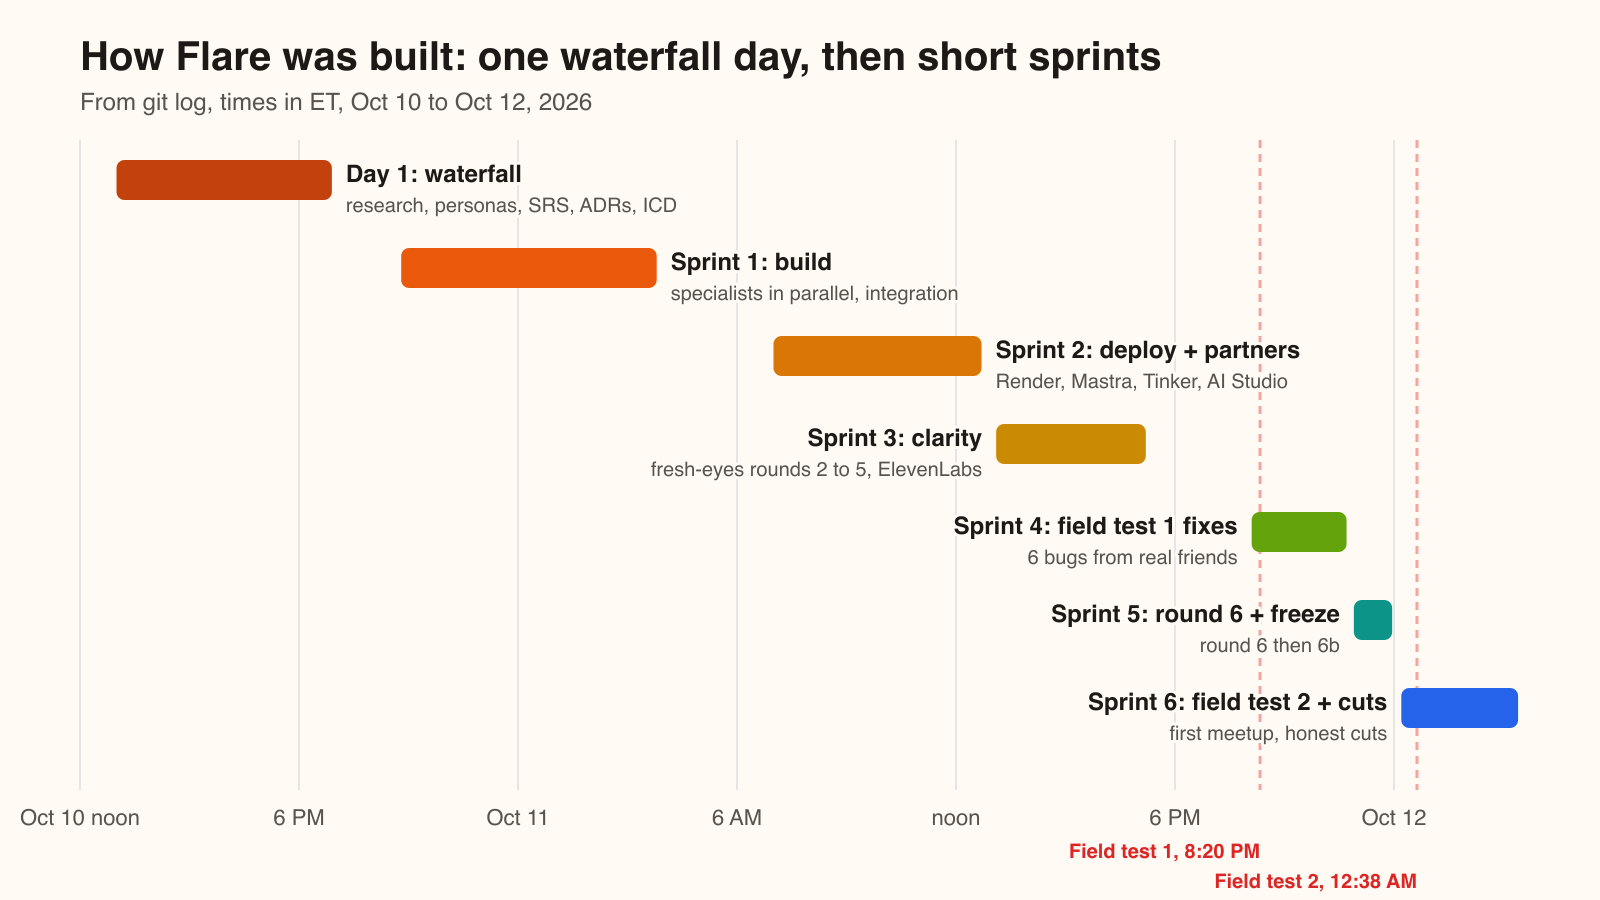
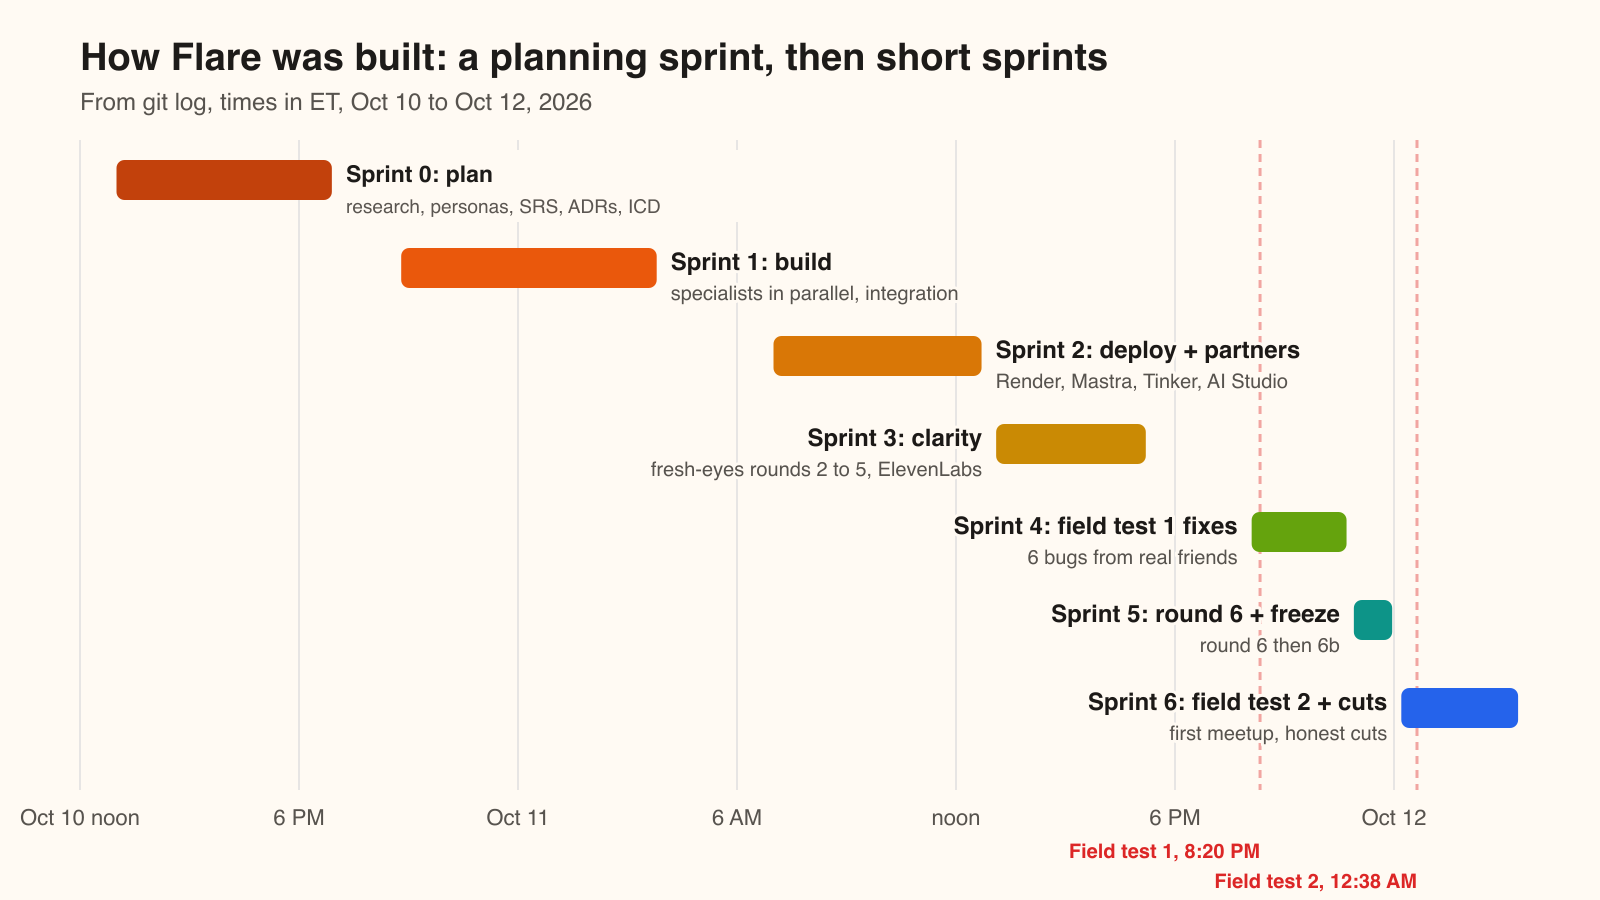
Post v2: the founder's How I used AI text, the method as sprints (Sprint 0 plans), timeline labels to match
Entire-Checkpoint: 01M4QGDE68BM06XM7QE8GKWJPV

Changed region(s): [[0.0625, 0.0311, 0.7188, 0.0933], [0.2188, 0.1867, 0.4375, 0.2489]]

diff --git a/docs/post/draft-v2.md b/docs/post/draft-v2.md
@@ -148,13 +148,13 @@ The fresh-eyes testers are AI agents with no context, not people. Each one used 
 
 ## How I built it
 
-![How Flare was built: one waterfall day, then short sprints](https://flare-outside.onrender.com/post/sprints.png)
+![How Flare was built: a planning sprint, then short build sprints](https://flare-outside.onrender.com/post/sprints.png)
 
-### Day 1, like a real software company, waterfall style
+I ran the build as short sprints. Each one had one goal, ended with a review, and the review's misses became the next sprint. The review was either an AI fresh-eyes tester round or a real field test, and the retro after it wrote the next sprint's backlog.
 
-I'm one founder. I ran Claude Code sessions in roles, the way a small company would staff a project, and I made Day 1 waterfall on purpose. With many agents building at once, the cheapest bug is the one caught in a document.
+### Sprint 0: plan before anyone builds
 
-In order, on Oct 10 from 1 PM to 7 PM ET:
+With many agents building at once, the cheapest bug is the one caught in a document. So the first sprint built no product code. In order, on Oct 10 from 1 PM to 7 PM ET:
 
 1. **Research**: the challenge rules, the field of other entries, and the sources for why it matters.
 2. **Product**: personas and journeys ([04-personas-journeys.md](https://github.com/Hotragn/flare/blob/main/docs/product/04-personas-journeys.md)), the PRD and the scope.
@@ -165,12 +165,13 @@ In order, on Oct 10 from 1 PM to 7 PM ET:
 
 Then the specialists started in parallel: engine, backend, hub, integrations, PWA, frontend, maps and website, each with a brief in [docs/engineering/briefs/](https://github.com/Hotragn/flare/tree/main/docs/engineering/briefs), each building against the frozen contracts.
 
-### Then short agile sprints
+### The sprints
 
-After the build, I switched to short sprints, each ending in a review: a fresh-eyes round or a field test. Times are from `git log`, in ET.
+Times are from `git log`, in ET.
 
 | Sprint | When | Goal | What shipped | Review |
 | --- | --- | --- | --- | --- |
+| 0: plan | Oct 10, 1:01 PM to 7 PM | A spec, contracts and a plan before code | Research, personas, the SRS (159 requirements), ADRs, the ICD (14 interfaces) | The ICD frozen |
 | 1: build | Oct 10, 8:51 PM to Oct 11, 3:48 AM | Every part working against the ICD | Engine, backend, hub, PWA, frontend; integration merge at 1:55 AM | End-to-end suites |
 | 2: deploy and partners | Oct 11, 7:05 AM to 12:42 PM | Live, and the partner tech wired in | Render deploy (10:51), Mastra agent (10:54), Tinker rules (12:21), AI Studio key (12:42) | Fresh-eyes round 1: 5/10 |
 | 3: clarity | Oct 11, 1:09 PM to 5:14 PM | A stranger understands it in a minute | Rounds 2 to 5 fixes, ElevenLabs compass voice (2:12), axe 0 and Lighthouse 100 (3:33) | Rounds 2 to 5: 6, 5, 6, 6 |
@@ -181,7 +182,7 @@ After the build, I switched to short sprints, each ending in a review: a fresh-e
 ### The roles
 
 - **Per-role Claude Code sessions**: research, product, brand, design, architect, engineering lead, and one per specialist. Each wrote a handoff note when done ([docs/handoffs/](https://github.com/Hotragn/flare/tree/main/docs/handoffs)).
-- **The manager session**, acting as my CTO: it wrote briefs, reviewed handoffs and sent many prompts. Product and privacy calls were mine.
+- **The manager session**, acting as my project manager: it wrote briefs and prompts, reviewed handoffs and made day-to-day calls.
 - **Subagents in git worktrees** for isolated work, so a share fix or a photo gate could land without touching anyone else's files. You can see them in the history as `Merge branch 'worktree-agent-...'`.
 - **The Lab session** for risk spikes: things that could sink the plan, tried before anyone built on them. The browser models, the iPhone compass and Telegram were all spikes first.
 
@@ -193,7 +194,7 @@ The pre-push hook ([.githooks/pre-push.pre-entire](https://github.com/Hotragn/fl
 
 Entire records each agent session (more in [its section](#entire)). Its token count for one checkpoint, `entire checkpoint tokens 01M4NXQZFTTGWVNDECY5S75K0E`, shows 828M tokens over 1,546 API calls, and 99.2% of them were cache replay: the same context sent again on each call. That number is why I moved from 9 parallel specialist subagents to one session plus narrow subagents. Nine agents each carrying the whole project mostly paid to re-read it.
 
-**Disclosure:** I built this with Claude Code. Claude Code sessions drafted this post from the repo's evidence; I checked every claim and supplied the why, the field notes and my friend's words.
+**How I used AI:** Claude Code wrote the code and drafted this post from the repo's evidence, and a separate review session checked its numbers against that evidence. One session acted as my project manager: it wrote the build session's prompts, reviewed the work and made day-to-day calls while I slept, and anything that got posted or published waited for my yes. I chose the idea and set the direction, I ran both field tests with my friends, and the why is mine.
 
 ## Architecture
 
@@ -503,4 +504,4 @@ The manager/CTO session, curated to the work orders and the reports that came ba
 
 ## Updated after the deadline (Oct 12, 3 AM ET)
 
-This is a detailed rewrite of the published post, in first person. The facts are the same. What's new: how I built it (the waterfall day and the sprint table), a section per tool in one pattern, the field-test failure table with commit links, the losses up front, the two Remember this day cards, and the agent sessions.
+This is a detailed rewrite of the published post, in first person. The facts are the same. What's new: how I built it (the planning sprint and the sprint table), a section per tool in one pattern, the field-test failure table with commit links, the losses up front, the two Remember this day cards, and the agent sessions.
